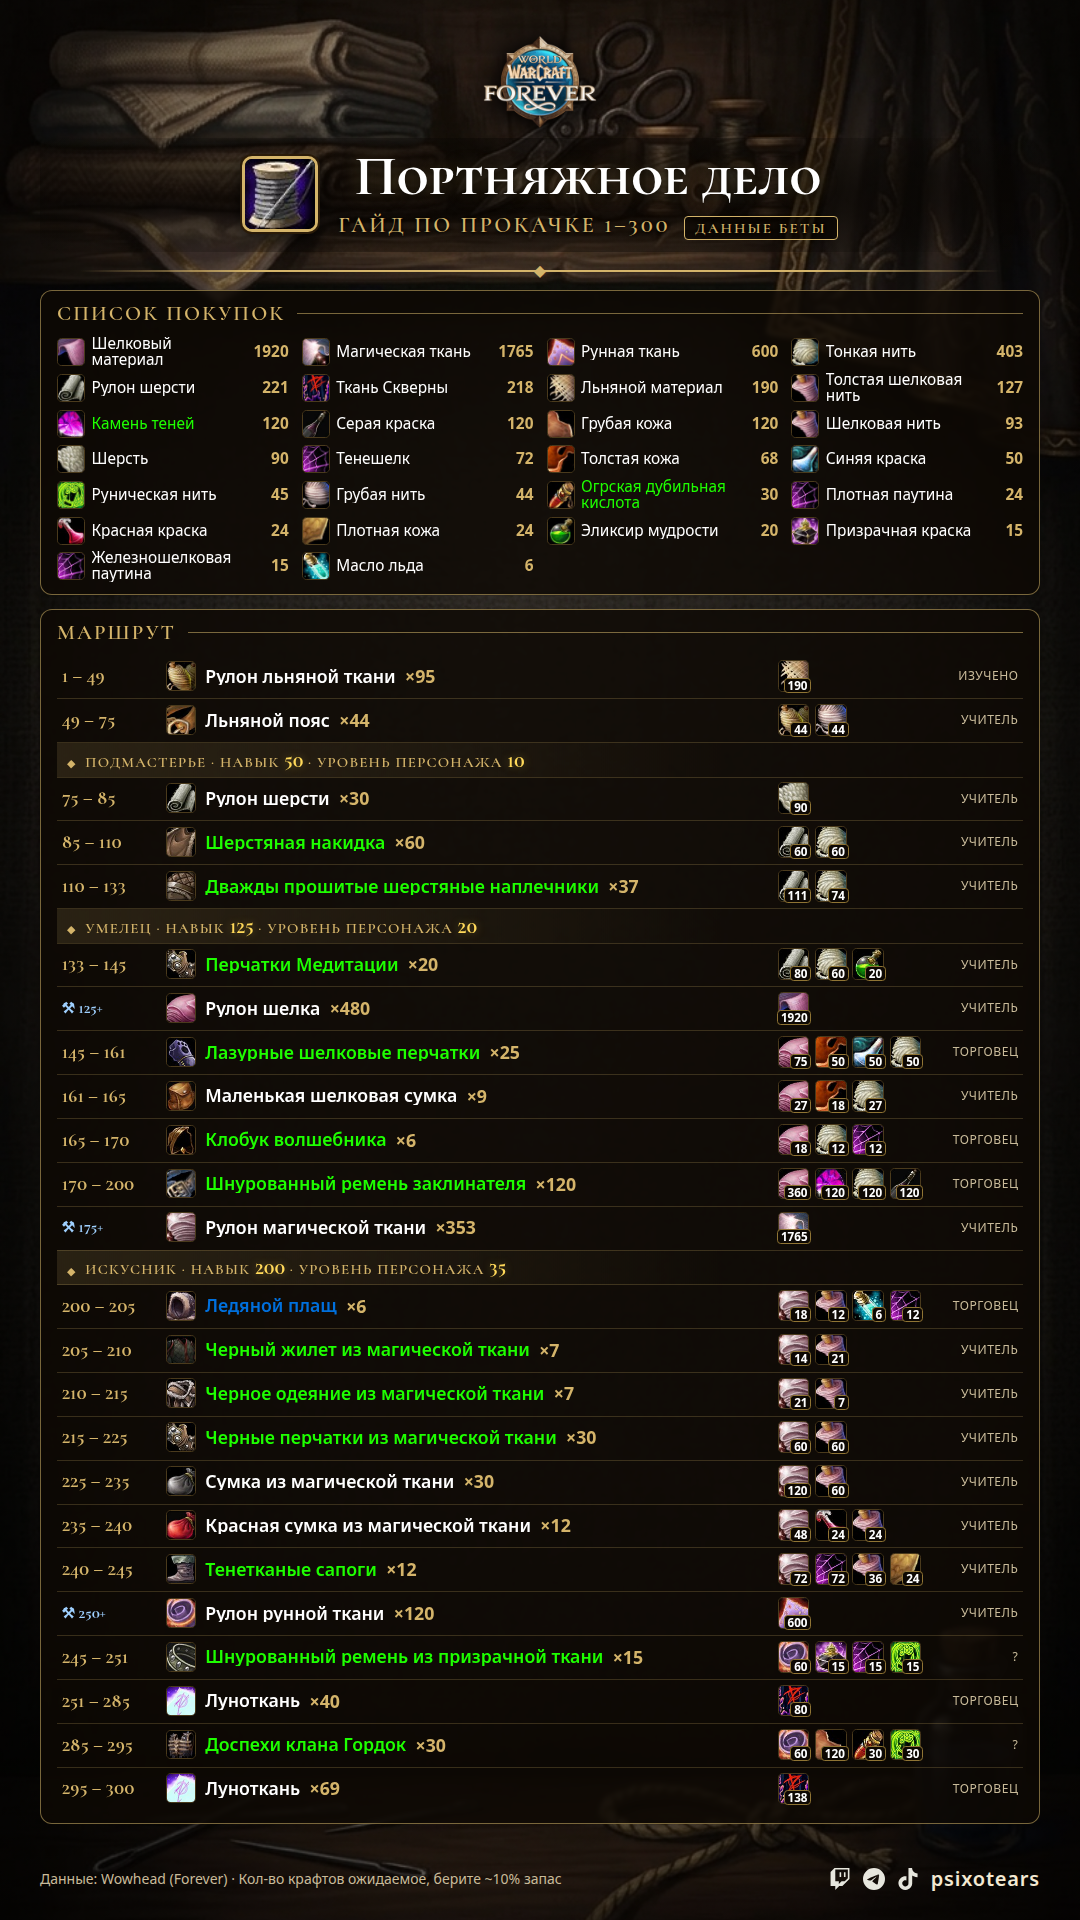
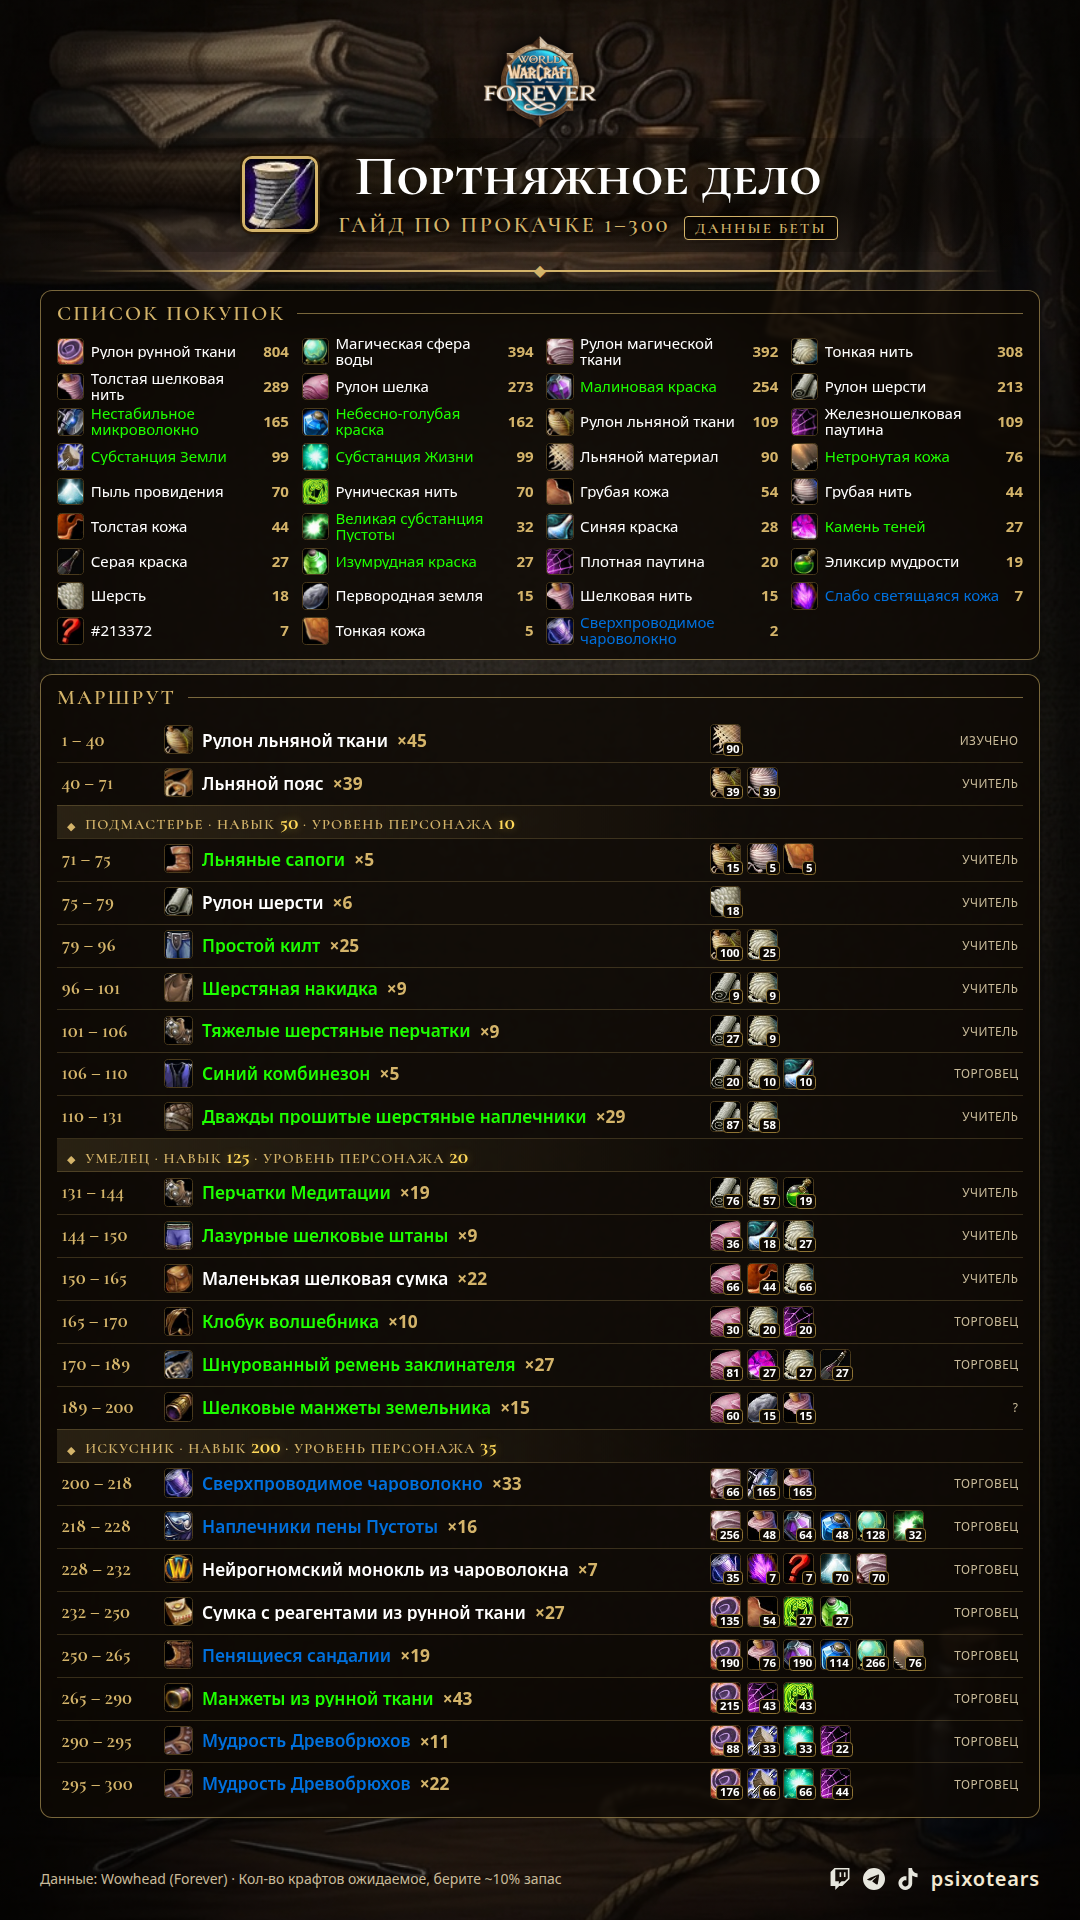
Routes: fill unknown sources, drop cooldown/seasonal/untestable recipes, piecewise skill-up model; re-render RU set
Claude-Session: https://claude.ai/code/session_012e8LnHD2AptEEnhumMxWH2

diff --git a/wow-cards/pipeline/route.py b/wow-cards/pipeline/route.py
@@ -5,7 +5,7 @@ does not fragment) and a second pass that discounts intermediate crafts whose pr
 route needs anyway (cured hides, bars, bolts...). Only trainer/vendor/auto-learned recipes.
 Usage: python3 route.py <profession> [--json]
 """
-import json, math, sys
+import json, math, sys, os, re
 from collections import defaultdict
 
 ITEMS = {int(k): v for k, v in json.load(open('data/items.json')).items()}
@@ -15,6 +15,13 @@ import re
 ONCE = re.compile(r"Runed .* Rod|Camp Tent|Tanning Rack|Sewing Machine|Anvil|Forge$|Workbench|Alchemy Lab|Loom|Grindstone", re.I)
 LANGS = ('en', 'ru', 'cn')
 OTHER_PROF_PRODUCTS = {}
+# manual fixes from guides/beta reports (spell id -> source, learnedat)
+OVERRIDE_SRC = {7418: 'auto', 18629: 'quest', 14530: 'quest', 10841: 'quest', 22813: 'quest', 9980: 'quest', 7421: 'auto'}
+OVERRIDE_LEARN = {7418: 1}
+EXCLUDE_IDS = {22813, 461692, 1230643}
+EXCLUDE_REAGENTS = {18240, 14342}      # Ogre Tannin (dungeon-bound), Mooncloth (cooldown product)          # Gordok Ogre Suit (dungeon-bound tannin), Enchanted Lute (quest item)
+COOLDOWN = set(json.load(open('data/cooldown_ids.json'))) if os.path.exists('data/cooldown_ids.json') else set()
+SEASONAL = re.compile(r"Rocket Cluster|Cluster Launcher|Rocket Launcher|Snowball|Lovely|Winter Veil|Winter Clothes|Festive|Lunar|Brewfest|Hallow", re.I)
 import os
 SPELL_SRC = json.load(open('data/spell_sources.json')) if os.path.exists('data/spell_sources.json') else {}
 CRAFTING = ['alchemy', 'blacksmithing', 'enchanting', 'engineering', 'leatherworking', 'tailoring', 'cooking', 'first-aid']
@@ -49,18 +56,30 @@ def base_price(i):
 
 
 def chance(r, s):
+    """Approximate Classic skill-up odds: orange/yellow ~1.0, green ~0.6 -> 0.1, grey 0."""
     o, y, g, gr = r['colors']
     if gr and s >= gr:
         return 0.0
     y = y or o
+    g = g or y
     if s < y or not gr:
         return 1.0
-    return max(0.0, (gr - s) / (gr - y))
+    if s < g:
+        return 1.0 - 0.4 * (s - y) / max(1, g - y)
+    return max(0.05, 0.6 - 0.5 * (s - g) / max(1, gr - g))
 
 
 def eligible(recipes, max_skill=300):
     out = []
     for r in recipes:
+        if r['id'] in OVERRIDE_LEARN:
+            r['learnedat'] = OVERRIDE_LEARN[r['id']]
+        if r['id'] in OVERRIDE_SRC and OVERRIDE_SRC[r['id']] in ('quest',) and not r.get('source'):
+            r['source'] = [QUEST]
+        if SEASONAL.search(r['name']) or r['id'] in EXCLUDE_IDS or r['id'] in COOLDOWN or any(i in EXCLUDE_REAGENTS for i, _ in r['reagents']):
+            continue
+        if not r.get('source') and r.get('learnedat', 9999) > 225 and r['id'] > 1000000 and r['id'] not in OVERRIDE_SRC:
+            continue                  # new Forever recipe above the beta cap: source unverifiable, skip
         if r.get('learnedat', 9999) > max_skill or not r.get('colors') or not r.get('reagents'):
             continue
         src = set(r.get('source', []))
@@ -78,8 +97,8 @@ def eligible(recipes, max_skill=300):
 def matcost(r, price):
     c = sum(q * price[i] for i, q in r['reagents'])
     src = r.get('source') or []
-    if not src:
-        c *= 1.3                      # unknown source: prefer known trainer/vendor recipes
+    if not src and r.get('learnedat', 9999) > 1 and r['id'] not in OVERRIDE_SRC:
+        c *= 2.2                      # unknown source (untested beta content): strongly prefer known recipes
     elif QUEST in src and not ({TRAINER, VENDOR} & set(src)):
         c *= 1.2
     return c
@@ -91,6 +110,9 @@ def greedy(recipes, price, max_skill, cost_fn=None, switch_penalty=0.35, min_run
     made = defaultdict(float)
     while s < max_skill:
         cands = [r for r in recipes if r['learnedat'] <= s and chance(r, s) > 0 and not (ONCE.search(r['name']) and made[r['id']] >= 1)]
+        good = [r for r in cands if chance(r, s) >= 0.5]
+        if good:
+            cands = good
         if not cands:
             steps.append({'from': s, 'to': s + 1, 'recipe': None, 'crafts': 0.0})
             s += 1
@@ -99,7 +121,7 @@ def greedy(recipes, price, max_skill, cost_fn=None, switch_penalty=0.35, min_run
         def cpp(r, at):
             return cost_fn(r, price, made) / chance(r, at)
         best = min(cands, key=lambda r: (cpp(r, s), -r['colors'][3]))
-        if cur and chance(cur, s) > 0:
+        if cur and chance(cur, s) >= 0.5:
             # stay with current recipe unless the new one is clearly cheaper and usable for a while
             run = sum(1 for t in range(s, min(max_skill, s + min_run)) if chance(best, t) > 0)
             if cpp(best, s) >= cpp(cur, s) * (1 - switch_penalty) or run < min_run:
@@ -202,7 +224,7 @@ def compute(prof, max_skill=300):
         again = False
         for i, q in list(shopping.items()):
             r = by_product.get(i)
-            if not r or matcost(r, price) / max(1, r['creates'][1]) > price[i] * 1.2:
+            if not r or matcost(r, price) / max(1, r['creates'][1]) > price[i] * 0.7:
                 continue                      # cheaper to buy than to craft
             n = math.ceil(q / max(1, r['creates'][1]))
             extras.append({'from': r['learnedat'], 'to': None, 'recipe': r, 'crafts': n, 'extra': True})
@@ -283,7 +305,7 @@ def export(prof, steps, shopping):
             'quality': r.get('quality', product.get('quality', 1)),
             'colors': r['colors'], 'learnedat': r['learnedat'],
             'source': ('trainer' if TRAINER in r.get('source', []) else 'vendor' if VENDOR in r.get('source', []) else 'quest' if QUEST in r.get('source', [])
-                       else 'auto' if r['learnedat'] <= 1 else SPELL_SRC.get(str(r['id']), 'unknown')),
+                       else OVERRIDE_SRC.get(r['id']) or ('auto' if r['learnedat'] <= 1 else SPELL_SRC.get(str(r['id']), 'unknown'))),
             'reagents': [item(i, q * st['crafts']) for i, q in r['reagents']],
             'alts': [{'name': {l: ((ITEMS.get(a['creates'][0], {}) if a.get('creates') else {}).get('name_' + l) or names[l].get(a['id'], a['name'])) for l in LANGS}, 'icon': (ITEMS.get(a['creates'][0], {}) if a.get('creates') else {}).get('icon') or SPELLS.get(a['id'], {}).get('icon', 'inv_misc_questionmark'),
                       'quality': a.get('quality', 1), 'reagents': [{'name': {l: ITEMS.get(i, {}).get('name_' + l, f'#{i}') for l in LANGS}, 'icon': ITEMS.get(i, {}).get('icon', 'inv_misc_questionmark'), 'qty': q} for i, q in a['reagents']]}

diff --git a/wow-cards/pipeline/cooldowns.py b/wow-cards/pipeline/cooldowns.py
@@ -1,0 +1,27 @@
+"""Fetch Wowhead spell pages for every recipe used in current routes, record ones with a cooldown >= 1h."""
+import json, glob, re, os, subprocess
+from concurrent.futures import ThreadPoolExecutor
+os.makedirs('spellpages', exist_ok=True)
+cd = set(json.load(open('data/cooldown_ids.json'))) if os.path.exists('data/cooldown_ids.json') else set()
+ids = set()
+for f in glob.glob('data/route_*.json'):
+    for st in json.load(open(f))['steps']:
+        if st.get('spell_id'): ids.add(st['spell_id'])
+def check(i):
+    p = f'spellpages/{i}.html'
+    if not os.path.exists(p) or os.path.getsize(p) < 5000:
+        subprocess.run(['curl', '-sS', '-L', '-A', 'Mozilla/5.0', '--max-time', '60', '-o', p, f'https://www.wowhead.com/forever/spell={i}'])
+    h = open(p, encoding='utf-8', errors='ignore').read()
+    m = re.search(r'printHtml\("(\[ul\].*?ul\])"', h, re.S); qf = m.group(1) if m else ''
+    # the recipe tooltip carries "cooldown":"2 days" in envChange; quick facts rarely do -> look at both
+    cdm = re.search(r'\\?"cooldown\\?":\\?"([^"\\]+)', h)
+    txt = (cdm.group(1) if cdm else '') + ' ' + qf
+    mm = re.search(r'(\d+)\s*(day|hour|hr)', txt, re.I)
+    return i, (mm.group(0) if mm else None)
+with ThreadPoolExecutor(6) as ex: res = list(ex.map(check, sorted(ids)))
+new = [i for i, c in res if c]
+for i, c in res:
+    if c: print('cooldown', i, c)
+cd |= set(new)
+json.dump(sorted(cd), open('data/cooldown_ids.json', 'w'))
+print('checked', len(ids), 'with cooldown total', len(cd))
